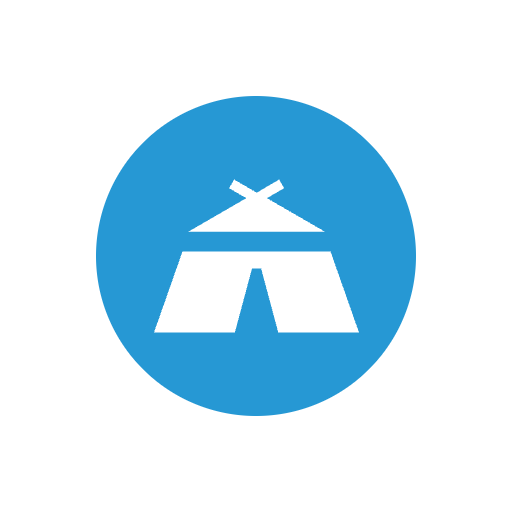
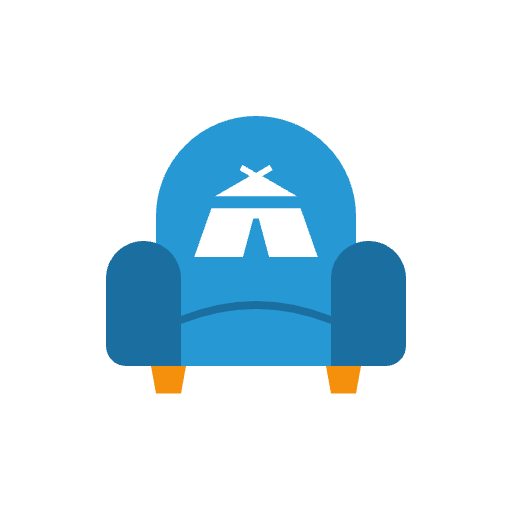
Seats 0.1.1: a mark of its own, an armchair with the yurt on its back
In the header, as favicon and home-screen icon, and on the sharing image.
On @eurth/style 1.10.0; npm run smoke added.

Changed region(s): [[0.1875, 0.1875, 0.8125, 0.8125]]

diff --git a/roadmap.md b/roadmap.md
@@ -6,12 +6,13 @@ Three parts: what comes next, what each release added (newest first), and what's
 
 ## Pick up here
 
-Seats 0.1.0 is built and **live at seats.eurth.org since 15 November 2026**: Stijn asked for it to be put up ahead of its door, so it was deployed by hand (`npm run deploy`). Until the door opens on 11 December, CI checks and tests every push but does not deploy; **deploy by hand after a change**. From the door on, CI and the nightly run deploy by themselves.
+Seats is built and **live at seats.eurth.org since 15 November 2026** (0.1.1 since 22 November): Stijn asked for it to be put up ahead of its door, so it was deployed by hand (`npm run deploy`). Until the door opens on 11 December, CI checks and tests every push but does not deploy; **deploy by hand after a change**. From the door on, CI and the nightly run deploy by themselves.
 
-Check, build, 254 tests and axe (five pages, both themes) pass. Start with the first items of "Next".
+Check, build, 261 tests, axe (five pages, both themes) and the smoke test pass. Start with the first items of "Next".
 
 ## Next
 
+- **Catch up with the handbook since 1.4.0:** the result side as two cards, "Save & share" and "Export", with Markdown first (`ExportPanel`, `markdownTable()`, Copy Markdown); the suite's `RandomButton`, which warns once before replacing work; settings in cards under headings with an icon (`eu-card-title`, `eu-step`); the guide, glossary and examples rebuilt from `PageHead`, `Figure`, `Note` and `Toc`, with pictures; `svelte-check` in `npm run check`; `pictureFilename()` for Safari's WebP.
 - **Try the remaining controls by hand:** the three downloads in each size, Copy picture, saving and loading a profile, dropping a profile on the window, and the whole page with a screen reader. Tried on the live site on 15 November and working: the coalition builder and its shortcuts, the three layouts, pasting results, switching systems, the presets, reloading from the link, the share dialog's links, Random and "Hung."
 - **The launch workflow still runs on 10 December** and simply deploys again (Stijn decided on 15 November to keep the site public until then). Delete `.github/workflows/launch.yml` afterwards.
 - **Propose the extra profile fields to `@eurth/profile`:** `threshold`, `systemId`, `bonus`, `majority`, and `votes` and `voteShare` on each party. Seats writes them already (unknown keys are kept); the schema should describe them.
@@ -25,6 +26,12 @@ Check, build, 254 tests and axe (five pages, both themes) pass. Start with the f
 - **Seat change since the last election** (+3, −5) in the table and the wikitext.
 - **A sound for the signature touch**, behind the footer's sound switch: a gavel when a majority forms.
 - **Launch chores:** submit the sitemap in Search Console, add Seats to status.eurth.org and Eurth's Worldbuilding Tools docs, announce it on the forum and Discord when its door opens.
+
+## 22 November 2026: 0.1.1
+
+- **Seats has a mark of its own:** an armchair with the Eurth yurt on its back, after the chair in Readability's old logo (Stijn's idea). It stands in front of the name in the header, and it is the favicon, the home-screen icon and the mark on the sharing image. It is `src/assets/mark.svg`; the yurt on it is the suite's own, placed as it is.
+- **On `@eurth/style` 1.10.0:** the blue bar with the pages as pills, the new footer, chosen options in eurth-blue. Nothing in Seats had to change for it.
+- **`npm run smoke`:** the built site in real Chrome under its real headers, as the suite's CI now runs it.
 
 ## 15 November 2026: preview (0.1.0)
 

diff --git a/README.md b/README.md
@@ -43,6 +43,7 @@ src/seats/      the logic, free of the page: every file runs the same in the bro
   explain.ts      the working shown in the guide's tables
 src/content/    worked examples, glossary, example elections and presets of real chambers
 src/ui/         the Svelte components of the calculator
+src/assets/     the mark: an armchair with the Eurth yurt on its back
 src/pages/      the four pages and the 404
 tests/          the logic, the content, and the suite's standard checks of the built site
 ```
@@ -72,6 +73,7 @@ npm run dev
 | `npm run build` | The static site, into `dist/`. |
 | `npm test` | The logic and content tests, and the suite's checks of the built site. Build first. |
 | `npm run axe` | Accessibility checks on every built page, in both themes. |
+| `npm run smoke` | The built site in real Chrome under its real headers: nothing stored, nothing blocked, every page offline. |
 | `npm run preview` | Builds, then serves `dist/` with its real headers (`wrangler dev`). |
 | `npm run images` | Remakes the icons and the sharing image in `public/`. |
 

diff --git a/docs/feedback-log.md b/docs/feedback-log.md
@@ -4,4 +4,5 @@ Every point from a review of Seats, and the release that dealt with it. Newest f
 
 | Date | Point | Done in |
 | --- | --- | --- |
+| 22 November 2026 | The logo could be a seat with the Eurth yurt on its back, like the chair in Readability's old logo (Stijn). | 0.1.1 |
 | 15 November 2026 | Put the site up at seats.eurth.org ahead of its door (Stijn). | 0.1.0 |
